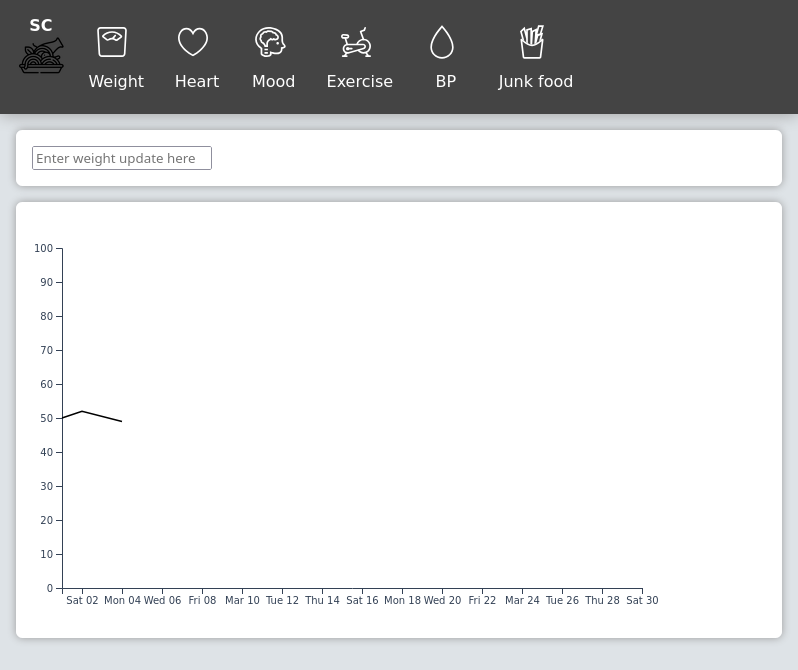
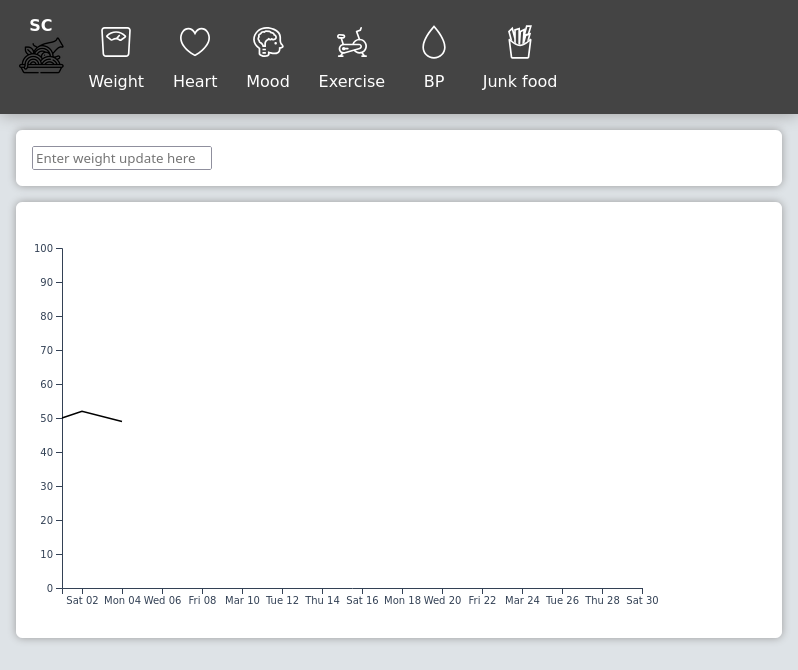
Styling update

diff --git a/frontend/resources/stylesheets/style.css b/frontend/resources/stylesheets/style.css
@@ -1,7 +1,6 @@
 header .icon {
   font-size: 2.5em;
   vertical-align: middle;
-  margin-right: .2em;
 }
 
 header {
